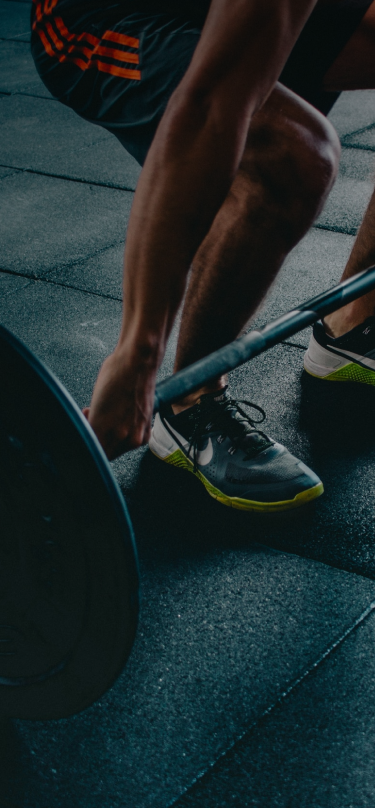
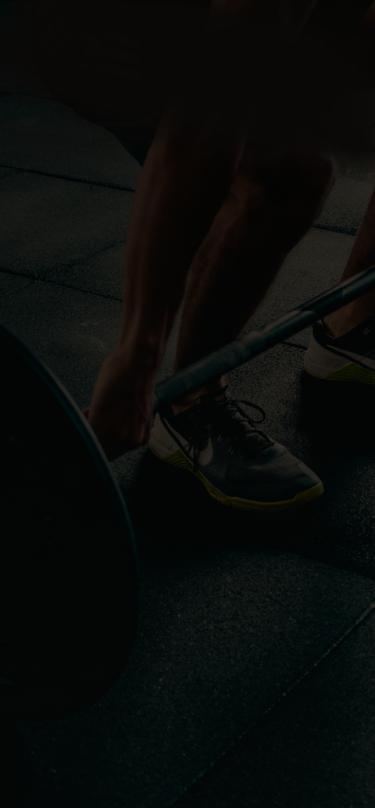
Update
- update on_boarding
- update auth
- update background img

diff --git a/lib/views/authentication/sign_up_page.dart b/lib/views/authentication/sign_up_page.dart
@@ -1,3 +1,4 @@
+import 'package:checkbox_formfield/checkbox_formfield.dart';
 import 'package:flutter/material.dart';
 import 'package:auto_route/auto_route.dart';
 import 'package:workout_zone/utils/routes/routes.gr.dart';
@@ -73,10 +74,10 @@ class _SignUpPageState extends State<SignUpPage> {
                   width: double.infinity,
                   child: TextSambut(
                     sambut1: 'Welcome !\n',
-                    smabut2: 'asjdiasjdadkadajdkjkjad\nasdsjjdjasdka',
+                    smabut2:
+                        'Enjoy the gym with us, Create account to continue',
                   ),
                 ),
-                const VerticalSpace(height: 20),
                 Form(
                   key: _formkey,
                   child: Column(
@@ -85,9 +86,8 @@ class _SignUpPageState extends State<SignUpPage> {
                         validator: (value) {
                           if (value == null ||
                               value.length < 4 ||
-                              RegExp(r"^\s*([A-Za-z]{1,}([\.,] |[-']| ))+[A-Za-z]+\.?\s*$")
-                                  .hasMatch(value)) {
-                            return 'Masukan Nama yang benar';
+                              !RegExp(r"^([a-z0-9])([A-Z])").hasMatch(value)) {
+                            return 'Please use only letters (a-z), and numbers.';
                           }
                           return null;
                         },
@@ -103,7 +103,7 @@ class _SignUpPageState extends State<SignUpPage> {
                               value.length < 14 ||
                               !RegExp(r"^[a-zA-Z0-9.]+@[a-zA-Z0-9]+\.[a-zA-Z]+")
                                   .hasMatch(value)) {
-                            return 'Masukan Email';
+                            return 'Please Enter a valid Email Address';
                           }
                           return null;
                         },
@@ -118,7 +118,7 @@ class _SignUpPageState extends State<SignUpPage> {
                           if (value == null ||
                               value.length < 12 ||
                               RegExp(r"^\+?0[0-9]{10}$").hasMatch(value)) {
-                            return 'Masukan Nomor Handphone';
+                            return 'Please enter your phone number';
                           }
                           return null;
                         },
@@ -132,9 +132,8 @@ class _SignUpPageState extends State<SignUpPage> {
                         validator: (value) {
                           if (value == null ||
                               value.length < 8 ||
-                              !RegExp(r"(?=.*\d)(?=.*[a-z])(?=.*[A-Z])(?=.*\W)")
-                                  .hasMatch(value)) {
-                            return 'Masukan Password yang valid ';
+                              !RegExp(r"([a-z0-9])([A-Z])").hasMatch(value)) {
+                            return 'Password length must be at least 8 characters';
                           }
                           return null;
                         },
@@ -146,48 +145,33 @@ class _SignUpPageState extends State<SignUpPage> {
                         validator: (value) {
                           if (value == null ||
                               value.length < 8 ||
-                              !RegExp(r"(?=.*\d)(?=.*[a-z])(?=.*[A-Z])(?=.*\W)")
-                                  .hasMatch(value)) {
-                            return 'Masukan Password yang valid ';
+                              value != _passwordController.text ||
+                              !RegExp(r"([a-z0-9])([A-Z])").hasMatch(value)) {
+                            return 'Password do not match';
                           }
-                          if (value != _passwordController.text) {
-                            return 'Password Not Match';
-                          }
+
                           return null;
                         },
                         title: 'Confirm Password',
                         hint: 'Re-Enter Your Password',
                         controller: _compassController,
                       ),
-                      Row(
-                        children: [
-                          SizedBox(
-                            width: 20,
-                            child: Checkbox(
-                              fillColor: MaterialStateProperty.resolveWith(
-                                  (states) => kPrimaryColor),
-                              value: check,
-                              onChanged: (bool? value) {
-                                setState(
-                                  () {
-                                    check = value!;
-                                  },
-                                );
-                              },
-                            ),
-                          ),
-                          const HorizontalSpace(width: 8),
-                          Text(
+                      const VerticalSpace(height: 16),
+                      CheckboxListTileFormField(
+                        contentPadding: const EdgeInsets.fromLTRB(0, 0, 0, 0),
+                        title: Text(
                             'By registering, you agree to Terms and Conditions',
-                            style: AppTheme.theme(context)
-                                .textTheme
-                                .labelMedium
-                                ?.copyWith(
-                                  fontWeight: kRegularWeight,
-                                ),
-                          ),
-                        ],
+                            style:
+                                AppTheme.theme(context).textTheme.labelLarge),
+                        validator: (value) {
+                          if (value!) {
+                            return null;
+                          } else {
+                            return 'You must accept the terms and conditions to register an account';
+                          }
+                        },
                       ),
+                      const VerticalSpace(height: 16),
                       ButtonWithLatar(
                         title: 'Sign Up',
                         press: () {

diff --git a/lib/views/authentication/create_new_pass.dart b/lib/views/authentication/create_new_pass.dart
@@ -30,16 +30,16 @@ class _CreateNewPassState extends State<CreateNewPass> {
         centerTitle: true,
         elevation: 0,
         backgroundColor: Colors.transparent,
-        leading: IconButton(
-          color: kDarkColor,
-          icon: const Icon(
-            Icons.arrow_back_ios_new,
-            color: kPrimaryColor,
-          ),
-          onPressed: () {
-            Navigator.of(context).pop();
-          },
-        ),
+        // leading: IconButton(
+        //   color: kDarkColor,
+        //   icon: const Icon(
+        //     Icons.arrow_back_ios_new,
+        //     color: kPrimaryColor,
+        //   ),
+        //   onPressed: () {
+        //     Navigator.of(context).pop();
+        //   },
+        // ),
       ),
       body: SafeArea(
           child: Padding(
@@ -58,9 +58,8 @@ class _CreateNewPassState extends State<CreateNewPass> {
                     validator: (value) {
                       if (value == null ||
                           value.length < 8 ||
-                          !RegExp(r"(?=.*\d)(?=.*[a-z])(?=.*[A-Z])(?=.*\W)")
-                              .hasMatch(value)) {
-                        return 'Masukan Password yang valid ';
+                          !RegExp(r"([a-z0-9])([A-Z])").hasMatch(value)) {
+                        return 'Password length must be at least 8 characters';
                       }
                       return null;
                     },
@@ -72,13 +71,11 @@ class _CreateNewPassState extends State<CreateNewPass> {
                     validator: (value) {
                       if (value == null ||
                           value.length < 8 ||
-                          !RegExp(r"(?=.*\d)(?=.*[a-z])(?=.*[A-Z])(?=.*\W)")
-                              .hasMatch(value)) {
-                        return 'Masukan Password yang valid ';
-                      }
-                      if (value != _newPassword.text) {
+                          (value != _newPassword.text) ||
+                          !RegExp(r"([a-z0-9])([A-Z])").hasMatch(value)) {
                         return 'Password Not Match';
                       }
+
                       return null;
                     },
                     title: 'Comfirm New Password',
@@ -92,7 +89,7 @@ class _CreateNewPassState extends State<CreateNewPass> {
                 title: 'Confirm',
                 press: () {
                   if (_formKey.currentState!.validate()) {
-                    context.router.push(
+                    context.router.replace(
                       const SignInRoute(),
                     );
                   }

diff --git a/lib/views/authentication/sign_in_page.dart b/lib/views/authentication/sign_in_page.dart
@@ -71,18 +71,17 @@ class _SignInPageState extends State<SignInPage> {
                         width: double.infinity,
                         child: TextSambut(
                           sambut1: 'Welcome Back\n',
-                          smabut2:
-                              'asdsadasdjhadjsahdjhadjads\nakasdhjahdjkasd',
+                          smabut2: 'You have been missed, Login to continue',
                         ),
                       ),
-                      const VerticalSpace(height: 20),
+
                       FormUsername(
                         validator: (value) {
                           if (value == null ||
                               value.length < 14 ||
                               !RegExp(r"^[a-zA-Z0-9.]+@[a-zA-Z0-9]+\.[a-zA-Z]+")
                                   .hasMatch(value)) {
-                            return 'Masukan Valid Email';
+                            return 'Please enter your email address';
                           }
                           return null;
                         },
@@ -98,7 +97,7 @@ class _SignInPageState extends State<SignInPage> {
                           if (value == null ||
                               value.length < 8 ||
                               !RegExp(r"([a-z0-9])([A-Z])").hasMatch(value)) {
-                            return 'Incorrect password\nPassword is to short (minimum 8 characters)';
+                            return 'Incorrect password';
                           }
                           return null;
                         },
@@ -119,7 +118,7 @@ class _SignInPageState extends State<SignInPage> {
                           }
                         },
                       ),
-                      const VerticalSpace(height: 10),
+                      const VerticalSpace(height: 20),
 
                       ///text yang dibawah button
 

diff --git a/lib/views/authentication/widgets/form_password.dart b/lib/views/authentication/widgets/form_password.dart
@@ -26,7 +26,7 @@ class _FormPasswordState extends State<FormPassword> {
     return Column(
       crossAxisAlignment: CrossAxisAlignment.start,
       children: [
-        const VerticalSpace(height: 10),
+        const VerticalSpace(height: 20),
         Text(
           widget.title,
           style: const TextStyle(fontWeight: kBoldWeight, fontSize: 14),
@@ -38,6 +38,10 @@ class _FormPasswordState extends State<FormPassword> {
             obscureText: _hidePassword,
             controller: widget.controller,
             decoration: InputDecoration(
+              errorStyle: AppTheme.theme(context)
+                  .textTheme
+                  .labelLarge
+                  ?.copyWith(color: Colors.red),
               contentPadding: const EdgeInsets.fromLTRB(10, 0, 0, 0),
               suffixIcon: GestureDetector(
                 onTap: () {

diff --git a/lib/views/authentication/widgets/form_username.dart b/lib/views/authentication/widgets/form_username.dart
@@ -24,7 +24,7 @@ class FormUsername extends StatelessWidget {
     return Column(
       crossAxisAlignment: CrossAxisAlignment.start,
       children: [
-        const VerticalSpace(height: 10),
+        const VerticalSpace(height: 20),
         Text(
           title,
           style: const TextStyle(fontWeight: kBoldWeight, fontSize: 14),
@@ -36,6 +36,10 @@ class FormUsername extends StatelessWidget {
             keyboardType: keyboard,
             controller: controller,
             decoration: InputDecoration(
+              errorStyle: AppTheme.theme(context)
+                  .textTheme
+                  .labelLarge
+                  ?.copyWith(color: Colors.red),
               contentPadding: const EdgeInsets.fromLTRB(10, 0, 0, 0),
               hintText: hint,
               hintStyle: TextStyle(fontSize: 13, color: color),

diff --git a/lib/views/on_boarding/landing_page.dart b/lib/views/on_boarding/landing_page.dart
@@ -28,8 +28,9 @@ class Landingpage extends StatelessWidget {
 
                 ///text
                 const TextStarted(
-                  subtit: 'asdasddasdasd',
-                  tit: "Make Your Self \nStronger\n\n",
+                  subtit:
+                      "Being healthy is more fun if you can\ndo it together with more friends. With the\nbest coaches and interesting classes.\nLet's make the Workout Zone your\nhealthy life partner!",
+                  tit: "GET YOUR\nPERFECT CLASS\nWITH PERFECT\nTRAINERS\n\n",
                 ),
 
                 ///

diff --git a/lib/views/on_boarding/widgets/text_started.dart b/lib/views/on_boarding/widgets/text_started.dart
@@ -19,11 +19,12 @@ class TextStarted extends StatelessWidget {
           children: [
             TextSpan(
               text: tit,
-              style: const TextStyle(fontSize: 36, fontWeight: FontWeight.bold),
+              style: const TextStyle(
+                  fontSize: 36, fontWeight: FontWeight.bold, height: 1),
             ),
             TextSpan(
               text: subtit,
-              style: const TextStyle(fontSize: 16),
+              style: const TextStyle(fontSize: 16, height: 1.6),
             ),
           ],
         ),

diff --git a/lib/views/authentication/forget_password_page.dart b/lib/views/authentication/forget_password_page.dart
@@ -71,7 +71,7 @@ class _ForgetPasswordPageState extends State<ForgetPasswordPage> {
                             value.length < 14 ||
                             !RegExp(r"^[a-zA-Z0-9.]+@[a-zA-Z0-9]+\.[a-zA-Z]+")
                                 .hasMatch(value)) {
-                          return 'Masukan Valid Email';
+                          return 'Please enter your email address';
                         }
                         return null;
                       },

diff --git a/lib/views/on_boarding/on_boarding_page.dart b/lib/views/on_boarding/on_boarding_page.dart
@@ -25,7 +25,8 @@ class OnBoardingPage extends StatelessWidget {
               children: <Widget>[
                 const LogoImg(),
                 const TextStarted(
-                  subtit: 'akdokwakodakwodoad',
+                  subtit:
+                      'Increase endurance and body strength\nto create a healthier life with Workout\nzone.',
                   tit: "Make Your Self \nStronger\n\n",
                 ),
                 ButtonWithLatar(

diff --git a/lib/views/authentication/widgets/txt_sambut.dart b/lib/views/authentication/widgets/txt_sambut.dart
@@ -16,7 +16,7 @@ class TextSambut extends StatelessWidget {
           TextSpan(
             text: sambut1,
             style: AppTheme.theme(context).textTheme.headlineMedium?.copyWith(
-                height: 1.2, fontWeight: kBoldWeight, color: kDarkColor),
+                height: 2.0, fontWeight: kBoldWeight, color: kDarkColor),
           ),
           TextSpan(
             text: smabut2,
